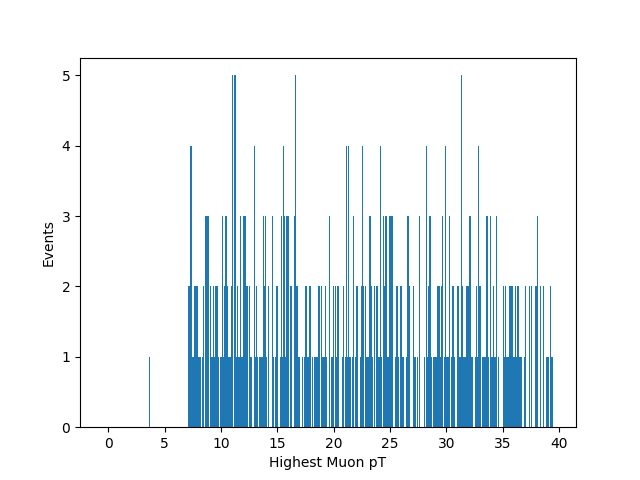
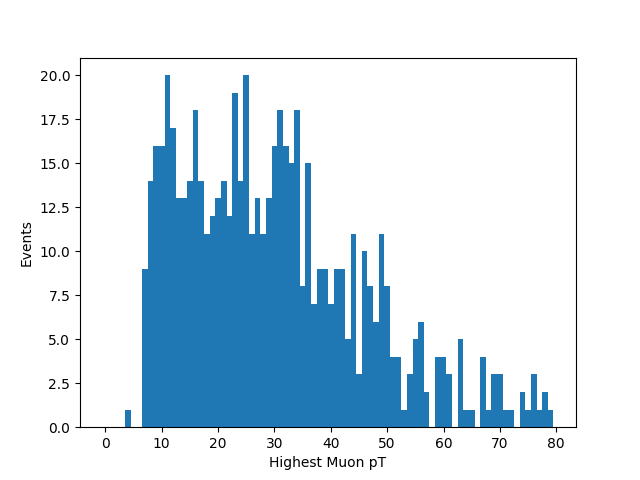
adjusted binning on ratio plots

diff --git a/n00dle.py b/n00dle.py
@@ -210,9 +210,9 @@ def ana(files):
 def trig(files):
     ## Create a dictionary of histogram objects
     plots = {
-        'hltplot':  Hist(400,(-0.5,39.5),'Highest Muon pT','Events','upplots/TrigHLTplot'),
-        'ptplot':   Hist(400,(-0.5,39.5),'Highest Muon pT','Events','upplots/TrigpTplot'),
-        'ratioplot':Hist(400,(-0.5,39.5),'Highest Muon pT','HLT_Mu7_IP4 / Events with Muons of sip > 5','upplots/TrigRatioPlot')
+        'hltplot':  Hist(80,(-0.5,79.5),'Highest Muon pT','Events','upplots/TrigHLTplot'),
+        'ptplot':   Hist(80,(-0.5,79.5),'Highest Muon pT','Events','upplots/TrigpTplot'),
+        'ratioplot':Hist(80,(-0.5,79.5),'Highest Muon pT','HLT_Mu7_IP4 / Events with Muons of sip > 5','upplots/TrigRatioPlot')
     }
     ## Create an internal figure for pyplot to write to
     plt.figure(1)
